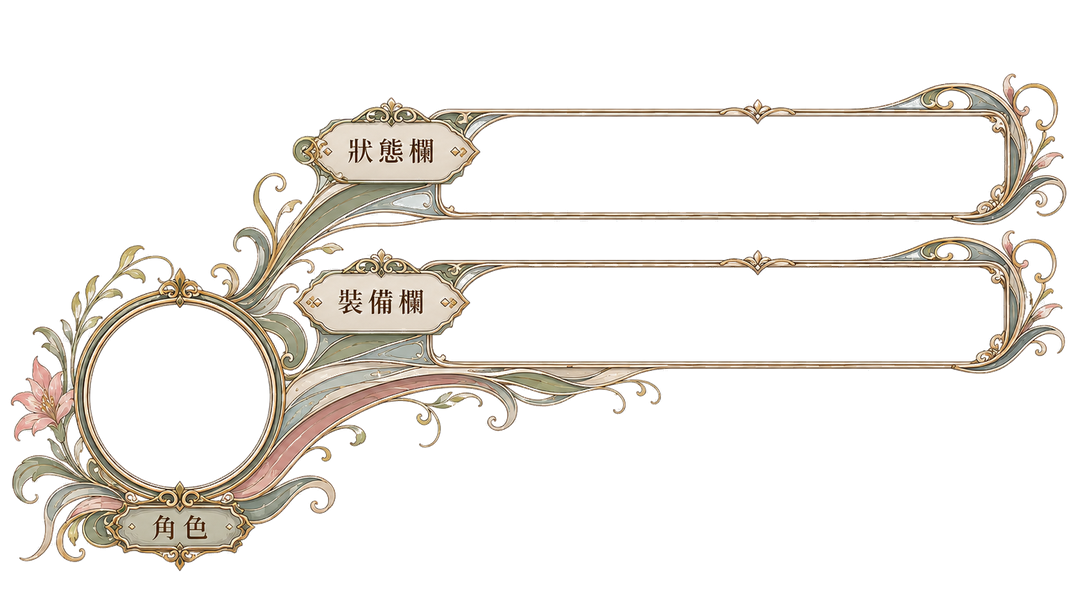
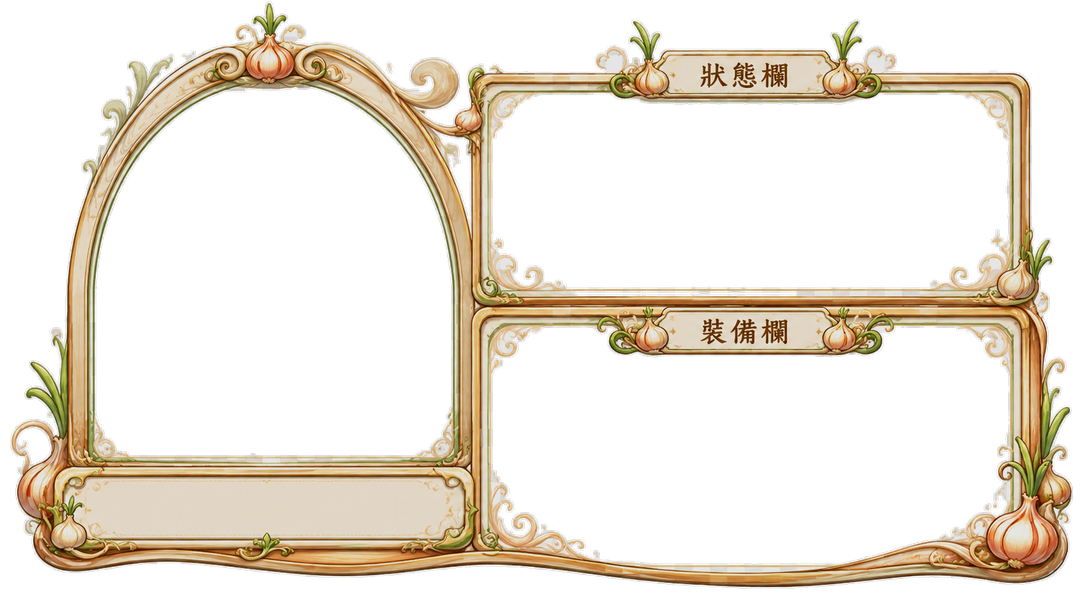
Add files via upload

diff --git a/app.js b/app.js
@@ -976,7 +976,7 @@ class BootScene extends Phaser.Scene {
         this.load.image('dummy', 'dummy.png');
         this.load.spritesheet('dummy-wet', 'dummy-wet.png', { frameWidth: 75, frameHeight: 75 });
 
-        // 【新增目標 2】：載入慕夏風角色狀態基底圖
+        // 載入慕夏風角色狀態基底圖
         this.load.image('status-bg', 'character-status-bg.png');
 
         this.load.audio('minimum_laser', 'minimum_laser.mp3');
@@ -1013,15 +1013,22 @@ class BootScene extends Phaser.Scene {
 class UIScene extends Phaser.Scene {
     constructor() { super('UIScene'); }
     create() {
-        // --- 目標 2：慕夏風角色狀態圖層 (建立於底層 Depth -2) ---
-        // 直接使用 PNG 圖檔作為基底，徹底避開程式繪圖 Bug，專心處理排版
+        // --- 慕夏風角色狀態圖層 ---
         this.statusContainer = this.add.container(0, 0).setDepth(-2);
         this.statusBg = this.add.image(0, 0, 'status-bg').setOrigin(0, 1);
         
-        // 洋蔥頭人像 (預設置於預留圓圈內)
-        this.portrait = this.add.sprite(0, 0, 'onion', 0).setScale(1.1);
+        // 洋蔥頭人像 (等等在 resizeUI 放大)
+        this.portrait = this.add.sprite(0, 0, 'onion', 0);
         
-        // 狀態藍 (文字置於預留特殊框內)
+        // 新增：顯示暱稱與等級
+        this.nameLevelText = this.add.text(0, 0, '初心者 Lv.1', { 
+            fontSize: '14px', 
+            color: '#3e2723', 
+            fontStyle: 'bold', 
+            fontFamily: 'Georgia' 
+        }).setOrigin(0.5);
+
+        // 狀態欄文字
         this.statusText = this.add.text(0, 0, '沒怎樣', { 
             fontSize: '15px', 
             color: '#3e2723', 
@@ -1029,7 +1036,7 @@ class UIScene extends Phaser.Scene {
             fontFamily: 'Georgia' 
         }).setOrigin(0.5);
         
-        // 裝備欄 (文字置於預留特殊框內，具備點擊互動)
+        // 裝備欄文字
         this.equipText = this.add.text(0, 0, '沒東西', { 
             fontSize: '15px', 
             color: '#3e2723', 
@@ -1050,7 +1057,7 @@ class UIScene extends Phaser.Scene {
         });
 
         // 將所有元件加入 Container 統一管理定位
-        this.statusContainer.add([this.statusBg, this.portrait, this.statusText, this.equipText]);
+        this.statusContainer.add([this.statusBg, this.portrait, this.nameLevelText, this.statusText, this.equipText]);
         // -----------------------------------------------------
 
         this.joyStick = this.plugins.get('rexvirtualjoystickplugin').add(this, {
@@ -1154,10 +1161,15 @@ class UIScene extends Phaser.Scene {
     }
 
     update() {
-        // UI 狀態同步更新 (目標 2：更新 PNG 圖檔上的文字與閃爍)
+        // 更新暱稱與等級
+        if (window.GameLogic.myProfile) {
+            let p = window.GameLogic.myProfile;
+            this.nameLevelText.setText(`${p.name || '匿名'} Lv.${p.level || 1}`);
+        }
+
+        // UI 狀態同步更新
         if (window.GameLogic.armedItemState) {
             this.equipText.setText('水球');
-            // 改用 Phaser Tween 控制閃爍，因為 Phaser Text 沒有 DOM node 可以操控 classList
             if (!this.equipBlinkTween) {
                 this.equipText.setColor('#66ccff');
                 this.equipBlinkTween = this.tweens.add({
@@ -1170,7 +1182,6 @@ class UIScene extends Phaser.Scene {
             }
         } else {
             this.equipText.setText('沒東西');
-            // 停止閃爍並還原設定
             if (this.equipBlinkTween) {
                 this.equipBlinkTween.stop();
                 this.equipBlinkTween = null;
@@ -1200,7 +1211,6 @@ class UIScene extends Phaser.Scene {
         const bottomOffset = isPortrait ? 120 : 20; 
 
         // --- 1. 先定位搖桿 (固定在左下角舒適區) ---
-        // 我們需要先算出搖桿的位置，因為接下來狀態欄要參考它
         const joystickX = 90;
         const joystickY = gameSize.height - 90 - (isPortrait ? 80 : 0);
         this.joyStick.setPosition(joystickX, joystickY);
@@ -1209,31 +1219,38 @@ class UIScene extends Phaser.Scene {
         if (this.joyStick.thumb) this.joyStick.thumb.setDepth(10);
 
         // --- 2. 動態縮放狀態欄底圖 ---
-        // 稍微放大最大寬度限制，讓整體看起來更大氣 (最大不超過 350px)
-        const targetWidth = Math.min(gameSize.width * 0.45, 350);
+        // 配合這張較寬的 16:9 比例圖檔，我們讓最大寬度稍微放寬到 380px，或螢幕寬度的 45%
+        const targetWidth = Math.min(gameSize.width * 0.45, 380);
         const scaleRatio = targetWidth / this.statusBg.width;
 
         // 套用縮放比例
         this.statusBg.setScale(scaleRatio);
-        this.portrait.setScale(1.1 * scaleRatio);
+        
+        // 依照要求，洋蔥人頭像放大，套用 1.8 倍並跟隨整體縮放
+        this.portrait.setScale(1.8 * scaleRatio);
 
         const bgW = this.statusBg.displayWidth;
         const bgH = this.statusBg.displayHeight;
 
-        // --- 3. 定位角色狀態基底 Container (重點修改處) ---
-        // X: 靠畫面左側，留 20px 邊距
-        // Y: 放置於搖桿正上方。搖桿半徑是 40，所以減去 60 剛好能在搖桿上方保留 20px 的完美間距
+        // --- 3. 定位角色狀態基底 Container ---
         const statusX = 20;
-        const statusY = joystickY - 60;
+        const statusY = joystickY - 60; // 維持在搖桿上方
         this.statusContainer.setPosition(statusX, statusY);
 
-        // 依據縮放後的尺寸定位內部元件，並同步微調最小字體大小避免看不清楚
-        this.portrait.setPosition(bgW * 0.25, -bgH * 0.6);
+        // --- 重新定位內部元件 (基於原點在左下角 0, 1 的相對座標) ---
+        // 1. 洋蔥頭像 (置中於左側大拱門內，稍微偏上以留空間給名字)
+        this.portrait.setPosition(bgW * 0.25, -bgH * 0.55);
         
-        this.statusText.setPosition(bgW * 0.75, -bgH * 0.71);
+        // 2. 暱稱與等級 (位於左下角的長條框內)
+        this.nameLevelText.setPosition(bgW * 0.24, -bgH * 0.16);
+        this.nameLevelText.setFontSize(`${Math.max(12, 16 * scaleRatio)}px`);
+        
+        // 3. 狀態欄文字 (位於右上角框內中心，約佔整體寬度 73%，高度 65%)
+        this.statusText.setPosition(bgW * 0.73, -bgH * 0.65);
         this.statusText.setFontSize(`${Math.max(14, 18 * scaleRatio)}px`); 
 
-        this.equipText.setPosition(bgW * 0.75, -bgH * 0.38);
+        // 4. 裝備欄文字 (位於右下角框內中心，約佔整體寬度 73%，高度 25%)
+        this.equipText.setPosition(bgW * 0.73, -bgH * 0.25);
         this.equipText.setFontSize(`${Math.max(14, 18 * scaleRatio)}px`);
 
         // --- 4. 定位右側按鈕群與選單 (保持現有邏輯) ---